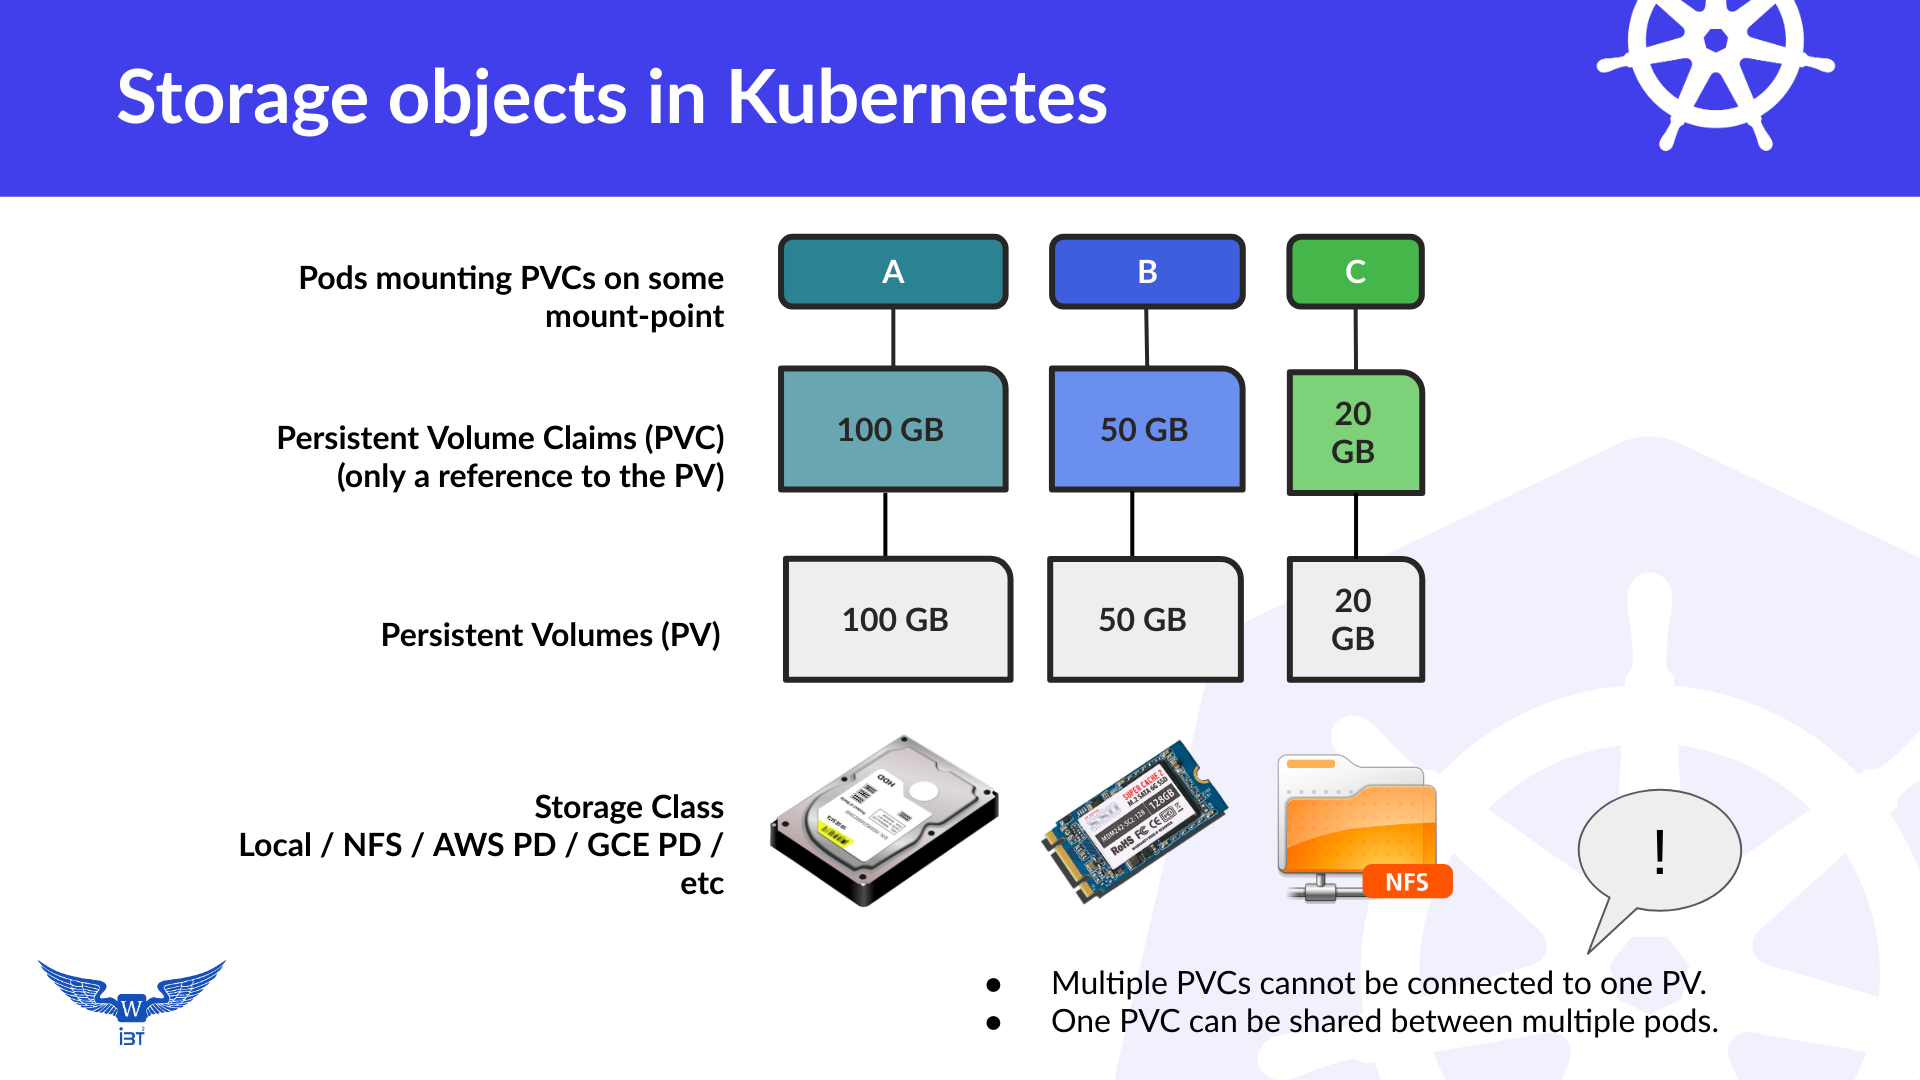
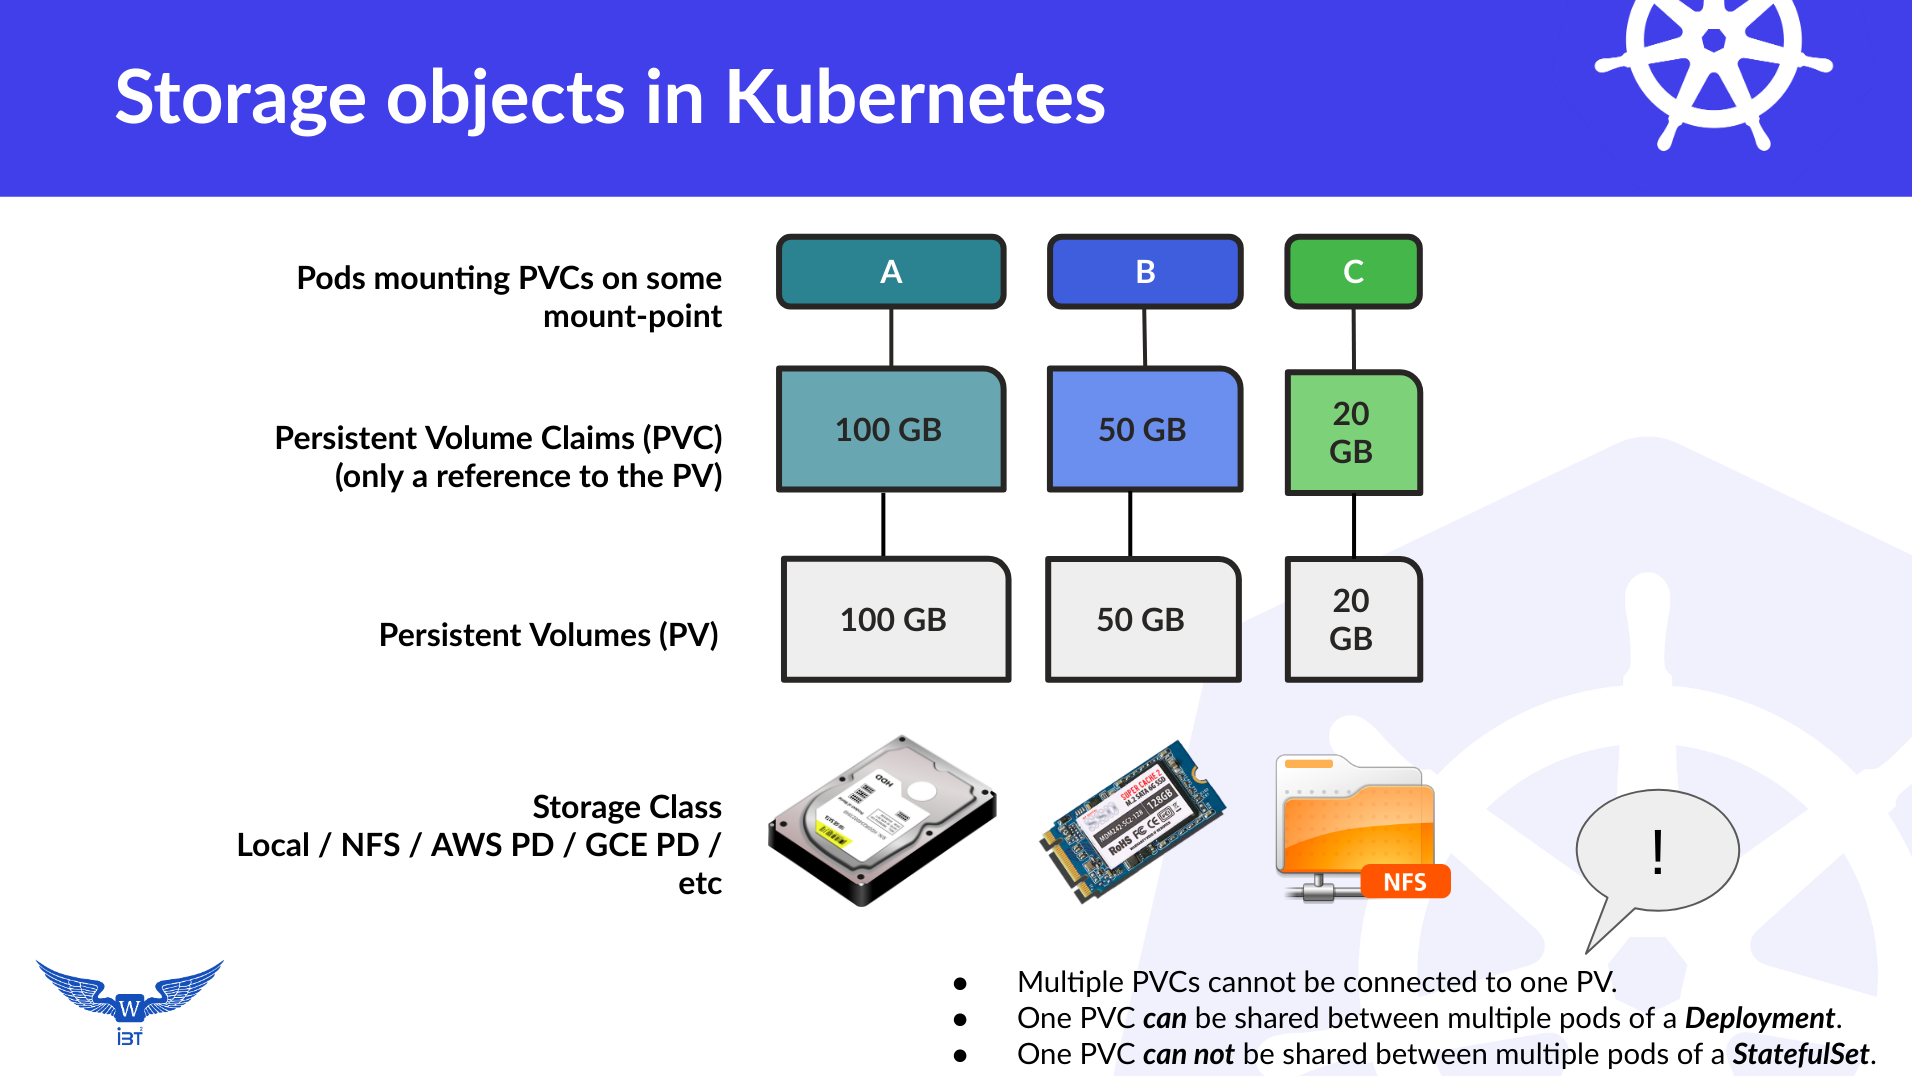
Fixed: warning text in storage diagram, and some formatting errors

diff --git a/08-storage-basic-dynamic-provisioning.md b/08-storage-basic-dynamic-provisioning.md
@@ -698,22 +698,20 @@ multitool-5cb86d97cb-bq2t5   1/1     Running   0          129m
 nginx-statefulset-0          1/1     Running   0          5m18s
 nginx-statefulset-1          1/1     Running   0          28s
 ```
-
+```
 $ kubectl get pvc
 NAME                                           STATUS   VOLUME                                     CAPACITY   ACCESS MODES   STORAGECLASS   AGE
 nginx-persistent-storage-nginx-statefulset-0   Bound    pvc-857123f5-5762-11ea-b461-42010aa601ba   1Gi        RWO            standard       22m
 nginx-persistent-storage-nginx-statefulset-1   Bound    pvc-70ae8a0a-5765-11ea-b461-42010aa601ba   1Gi        RWO            standard       118s
-
-
+```
+```
 $ kubectl get pv
 NAME                                       CAPACITY   ACCESS MODES   RECLAIM POLICY   STATUS     CLAIM                                                  STORAGECLASS   REASON   AGE
 pvc-70ae8a0a-5765-11ea-b461-42010aa601ba   1Gi        RWO            Delete           Bound      default/nginx-persistent-storage-nginx-statefulset-1   standard                119s
 pvc-857123f5-5762-11ea-b461-42010aa601ba   1Gi        RWO            Delete           Bound      default/nginx-persistent-storage-nginx-statefulset-0   standard                22m
-
+```
 
 If we run `curl` in a loop, in multitool, we should be able to see that both pods belonging to same nginx-statefulset **do not share** the PVCs. Each one has it's own. One of them has our index.html in it, the other one has empty PVC, and will show us "403 Forbidden" error.
-
-
 
 ```
 kubernetes-katas]$ kubectl exec -it multitool-5cb86d97cb-bq2t5 bash
